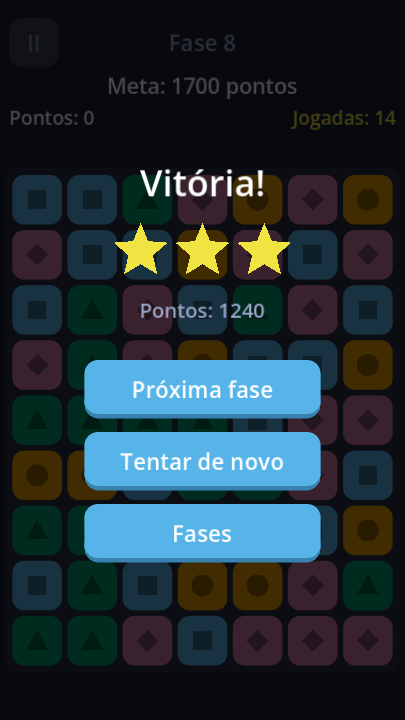
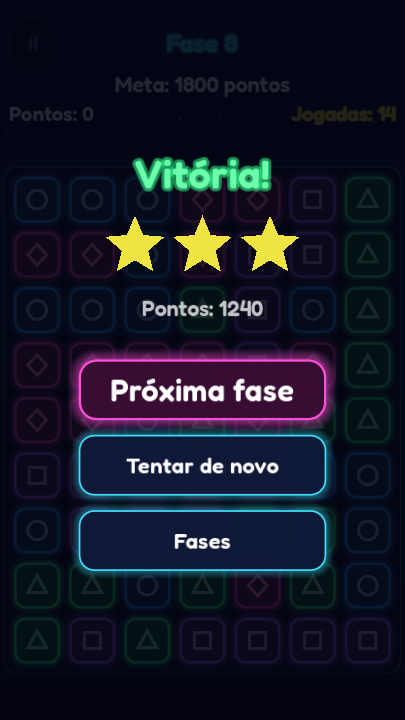
README do Colorbitz, novas capturas e captura dos efeitos

diff --git a/README.md b/README.md
@@ -1,32 +1,33 @@
-# Pop Blocks
+# Colorbitz
 
 [![Testes](https://github.com/matheusmontagner8/pop-blocks/actions/workflows/tests.yml/badge.svg)](https://github.com/matheusmontagner8/pop-blocks/actions/workflows/tests.yml)
 
-Puzzle casual para celular feito em **Godot 4** com **GDScript**. Toque em grupos
-de blocos da mesma cor para removê-los e cumpra a meta da fase antes de acabarem
-as jogadas.
+Puzzle casual com visual **neon** para celular, feito em **Godot 4** com **GDScript**.
+Toque em grupos de blocos da mesma cor para estourá-los e cumpra a meta da fase
+antes de acabarem as jogadas.
 
 <p align="center">
   <img src="docs/menu.png" width="200" alt="Menu principal">
   <img src="docs/levels.png" width="200" alt="Seleção de fases">
-  <img src="docs/screenshot.png" width="200" alt="Tela do jogo">
+  <img src="docs/effects.png" width="200" alt="Combinação grande com partículas">
   <img src="docs/result.png" width="200" alt="Resultado da fase">
 </p>
 
 > Projeto em desenvolvimento: este é o MVP do meu primeiro jogo para Android.
-> O nome "Pop Blocks" é provisório.
 
 ## Como jogar
 
 - Toque em um bloco: ele e todos os vizinhos da mesma cor (cima, baixo, esquerda,
-  direita) somem, se o grupo tiver 2 ou mais blocos.
+  direita) estouram, se o grupo tiver 2 ou mais blocos.
 - Os blocos de cima caem e as colunas vazias se fecham para a esquerda.
-- Pontos por jogada: `n × n × 10`, em que `n` é o tamanho do grupo. Grupos maiores valem bem mais.
-- Cada fase tem uma meta (pontuação ou "remover X blocos de uma cor") e um limite de jogadas.
-- Tocar em um bloco isolado não gasta jogada.
+- Pontos por jogada: `n × n × 10`, em que `n` é o tamanho do grupo. Grupos maiores valem bem mais,
+  e combinações de 6, 9 e 13+ blocos rendem "Ótimo!", "Incrível!" e "Fantástico!".
+- Cada fase tem uma meta (pontuação ou "estourar X blocos de uma cor") e um limite de jogadas.
+- Tocar em um bloco isolado não gasta jogada. Se você ficar parado, o jogo mostra uma dica.
 - Vença com jogadas sobrando para ganhar até 3 estrelas: 2 estrelas com 20% das jogadas sobrando e 3 com 40%.
   Cada vitória libera a fase seguinte (30 fases).
-- Cada cor tem também um ícone próprio (●, ■, ▲, ◆…), para que quem tem daltonismo jogue sem problema.
+- As cores entram aos poucos (3 → 6): azul, roxo, verde, rosa, amarelo e vermelho.
+  Cada cor tem também um ícone próprio (○ □ △ ◇ ☆ ✚), para que quem tem daltonismo jogue sem problema.
 
 ## Destaques técnicos
 
@@ -36,8 +37,13 @@ as jogadas.
 - **Fases em dados**: todas as fases ficam em [`data/levels.json`](data/levels.json),
   nenhuma é escrita no código.
 - **Dificuldade medida, não chutada**: [`tools/balance.gd`](tools/balance.gd) joga cada
-  fase centenas de vezes com um jogador "guloso" e um aleatório e mostra a taxa de
-  vitória. A curva vai de 100% nas primeiras fases a cerca de 45% (guloso) nas últimas.
+  fase centenas de vezes com um jogador "guloso" e um aleatório e mostra a taxa de vitória.
+  A curva cai de 100% para cerca de 50% em "dente de serra", aliviando a cada cor nova.
+- **Áudio 100% sintetizado** por [`tools/generate_audio.gd`](tools/generate_audio.gd):
+  efeitos (pop, explosão de desenho animado, estrelas…) e duas músicas em loop
+  (calma nos menus, animada nas fases), sem samples de terceiros.
+- **Visual neon leve**: brilho com `StyleBoxFlat` (sombra colorida) e partículas
+  `CPUParticles2D` com mistura aditiva, sem pós-processamento, para rodar em celulares modestos.
 - **Progresso salvo** em `user://save.json` ([`scripts/progress.gd`](scripts/progress.gd)),
   com gravação atômica (arquivo temporário + rename) e recuperação de save corrompido.
 - **Testes automatizados** com um executor próprio e leve, rodando em modo headless
@@ -60,8 +66,8 @@ godot --headless --path . -s tests/run_tests.gd
 
 ### Teste de fumaça da interface (gera as imagens de `docs/`)
 
-Percorre todas as telas, simula toques e testa pausar e reiniciar durante uma animação.
-Não altera o seu save.
+Percorre todas as telas, simula toques e efeitos e testa pausar e reiniciar durante
+uma animação. Não altera o seu save.
 
 ```bash
 godot --path . -s tools/screenshot.gd
@@ -73,25 +79,35 @@ godot --path . -s tools/screenshot.gd
 godot --headless --path . -s tools/balance.gd -- 300
 ```
 
+### Regerar os sons
+
+```bash
+godot --headless --path . -s tools/generate_audio.gd
+```
+
 ## Estrutura
 
 ```
+assets/    tema, fonte e áudio gerado
 data/      fases (levels.json)
 docs/      imagens do README
 scenes/    cenas: menu, seleção de fases, opções e jogo
 scripts/   lógica pura (board, game_session, progress, level_loader),
-           autoload GameState e telas (game_view, ui/)
+           autoloads GameState e Audio, telas (game_view, ui/) e efeitos (fx)
 tests/     testes da lógica e executor
-tools/     teste de fumaça/capturas e simulador de dificuldade
+tools/     teste de fumaça, simulador de dificuldade e gerador de áudio
 ```
 
 ## Roteiro
 
 - [x] **Semana 1**: tabuleiro, remoção de grupos, gravidade, pontuação e testes
 - [x] **Semana 2**: menu, seleção de fases, pausa, resultado, 30 fases em JSON e progresso salvo
-- [ ] **Semana 3**: arte, sons, música e as 30 fases balanceadas
+- [x] **Semana 3**: visual neon, partículas, combos, vibração, sons, músicas e fases rebalanceadas
+- [ ] Teste em celular Android real
 - [ ] **Semana 4**: anúncios e publicação na Google Play (teste fechado)
 
-## Licença
+## Créditos e licenças
 
-Código sob a licença [MIT](LICENSE).
+- Código e áudio: licença [MIT](LICENSE).
+- Fonte [Fredoka](https://github.com/hafontia/Fredoka-One): SIL Open Font License 1.1
+  ([`assets/fonts/OFL.txt`](assets/fonts/OFL.txt)).
